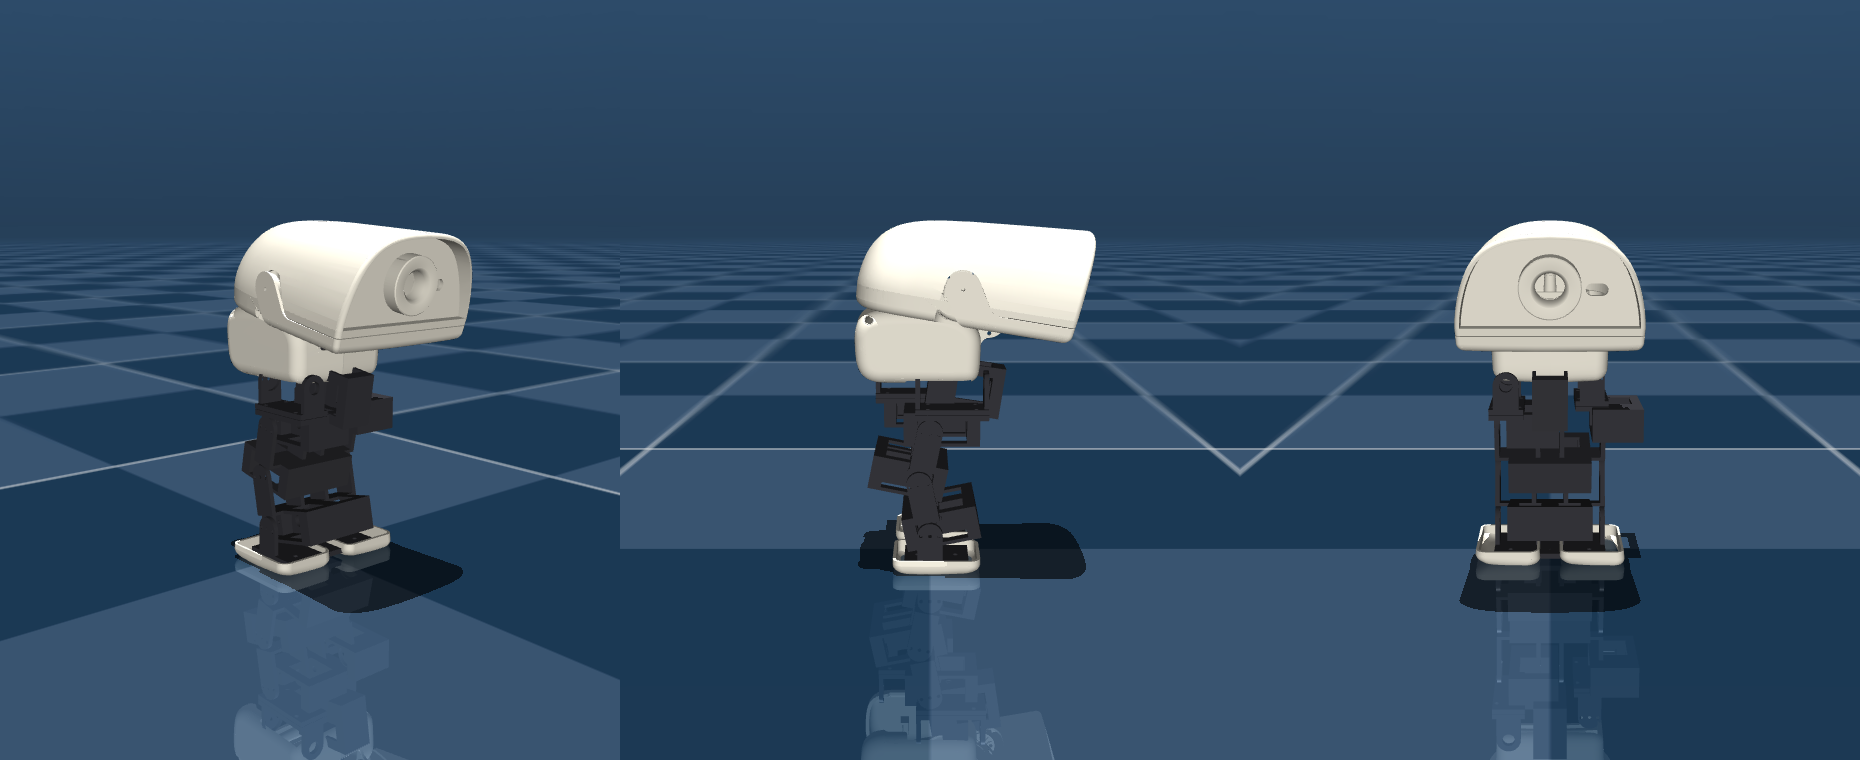
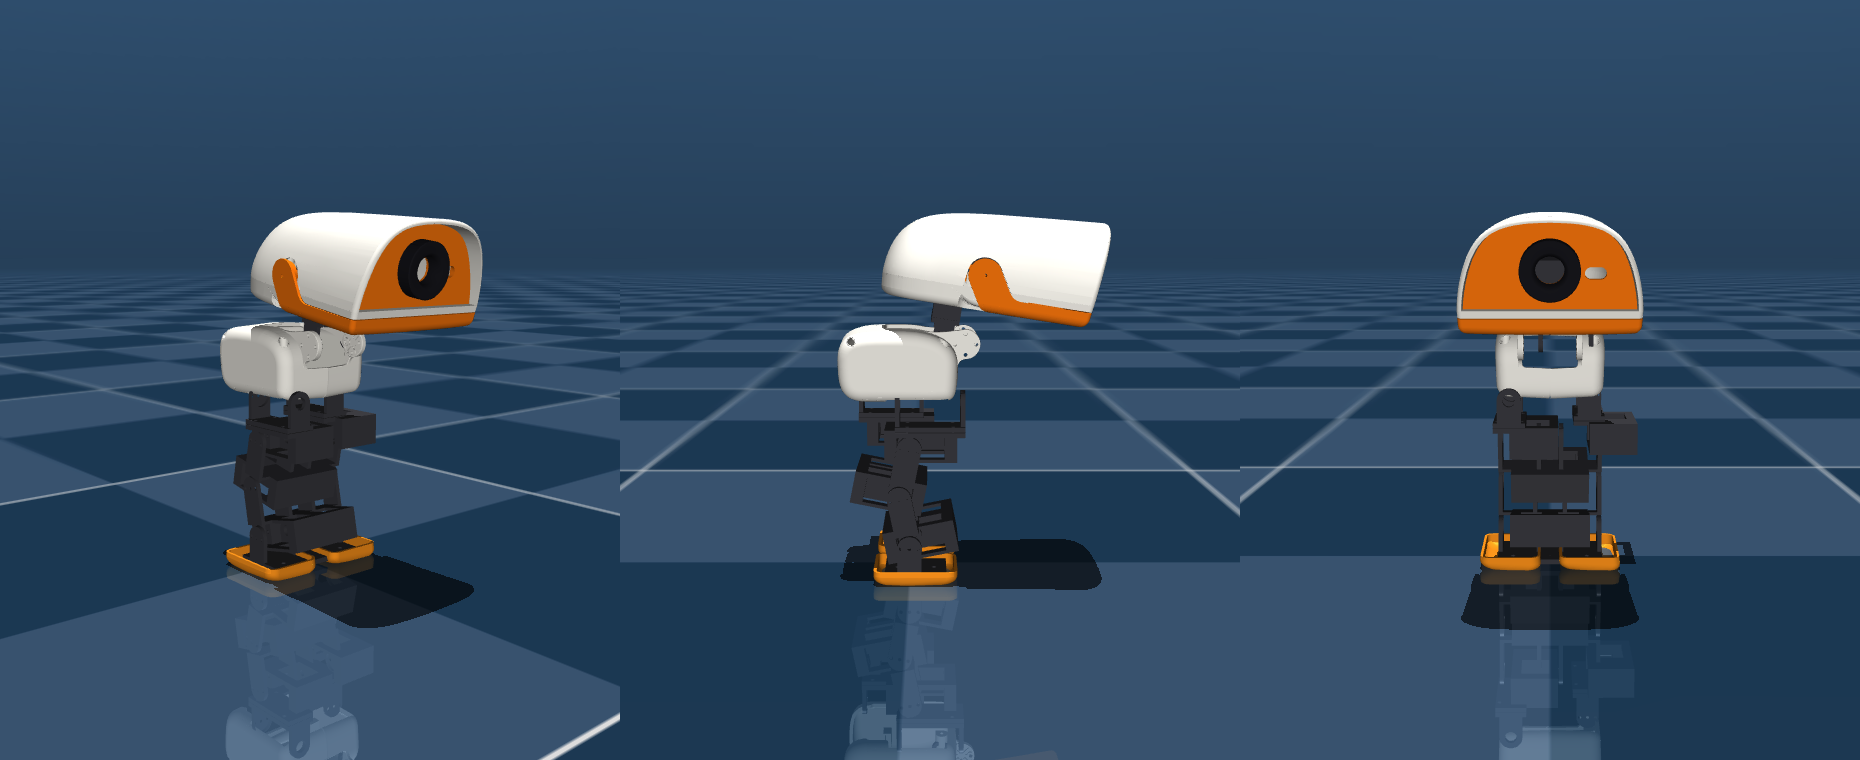
Fix the neck: part inverted, head buried, and no colour
"The neck looks wrong" was three separate defects.

The printed neck part was upside down. parts.link() builds every part with
its driving joint at -Z, which is correct for all six leg parts and backwards
for the one link that runs UP. The part spanned z -44 to +5 while the head sat
at +20, so it pointed down into the trunk. Caught by asking whether each
parent's part actually reaches the joint it drives -- the six leg parts pass,
the neck did not.

The head was 10.6 mm inside the body, which is what "no visible neck" really
was: there was a neck, the head was just swallowing it. NECK_SINK 8 mm and
HEAD_Z 4 mm were reasonable for a 37 mm head and badly wrong for the 50 mm one
that came with MicroDuck proportions. HEAD_Z is no longer typed or derived in
closed form -- the closed form was wrong twice, missing both the drop from the
neck_pitch tilt and the fact that a cluster's centre is not its lowest point.
solve_head_z() writes the model, measures the real gap in world coordinates,
and adds the deficit; check_head_clearance() then asserts it.

And the shells had no colour. They arrive as separate meshes, so per-mesh rgba
costs nothing and is most of what was left: the real robot is off-white with
an orange bill and brow band, a black eye and orange webbed feet, and one flat
cream reads as a generic white robot.

Also corrected in the README: the "head tilted 40 degrees" I reported from
looking at a render is not real. Measured pitch is +8.6 degrees, exactly
[…]

diff --git a/cad/build_nanoduck.py b/cad/build_nanoduck.py
@@ -84,7 +84,21 @@ NECK_LEN = 20.0                 # neck_pitch -> head_yaw (printed part length)
 NECK_SINK = 8.0                 # how far the neck root sits INSIDE the trunk, so
                                 # the head nestles instead of floating above it
 HEAD = (104.3, 78.0, 50.4)      # = cosmetic head cluster at 0.85
-HEAD_Z = 4.0                    # head cluster centre above the head_yaw axis
+
+# Where the head sits is DERIVED, not typed. Two hand-tuned numbers (NECK_SINK
+# 8 mm and HEAD_Z 4 mm) were fine for a 37 mm head and buried a 50 mm one
+# 10.6 mm inside the body -- which is what "the neck looks wrong" actually was:
+# no neck was visible because the head was inside the trunk.
+#
+# Constraint: the underside of the head clears the top of the trunk by HEAD_GAP.
+# Solving it here means changing the head scale cannot reintroduce the bug, and
+# check_head_clearance() measures the result off the compiled model.
+HEAD_GAP = 1.5                  # mm of daylight between head and body
+HEAD_X = 18.0                   # head centre ahead of the head_yaw axis: the neck
+                                # meets the skull toward its rear, as on MicroDuck,
+                                # so the bill projects and the head does not sit
+                                # over the tail
+HEAD_Z = (TRUNK[2] / 2 + HEAD_GAP) - (TRUNK[2] / 2 - NECK_SINK) - NECK_LEN + HEAD[2] / 2
 
 
 # --- Masses [kg] not accounted for by a servo box -----------------------------
@@ -315,8 +329,8 @@ def build_robot() -> str:
     a(link_geom("neck_link", (10, 12, NECK_LEN), (0, 0, NECK_LEN / 2), M_NECK_LINK))
     a('        <body name="head" pos="%s">\n' % m(0, 0, NECK_LEN))
     a('          <joint name="head_yaw" axis="0 0 1" range="-2.967 2.967"/>\n')
-    a(link_geom("head_shell", HEAD, (0, 0, HEAD_Z), M_HEAD, "0.95 0.93 0.86 1"))
-    a(COS.cluster_geoms("head", (0.0, 0.0, HEAD_Z)))
+    a(link_geom("head_shell", HEAD, (HEAD_X, 0, HEAD_Z), M_HEAD, "0.95 0.93 0.86 1"))
+    a(COS.cluster_geoms("head", (HEAD_X, 0.0, HEAD_Z)))
     # Sensor mounting points, matching MicroDuck's own set so its tooling finds
     # the names it expects. Nothing in the walking observation reads these --
     # that is base_ang_vel and gravity off the trunk IMU -- but the head shell
@@ -357,6 +371,67 @@ def trunk_z() -> float:
     import math
     drop = THIGH * math.cos(HIP_PITCH_0) + SHIN * math.cos(HIP_PITCH_0 + KNEE_0)
     return ANKLE_TO_SOLE + FOOT[2] + drop + HIP_ROLL_TO_PITCH + TRUNK[2] / 2
+
+
+def _shell_world_bounds(scene_path, names):
+    """World-space bounding box [mm] of a set of skin geoms, in the home pose."""
+    import mujoco
+    import numpy as np
+    import trimesh
+
+    m = mujoco.MjModel.from_xml_path(scene_path)
+    d = mujoco.MjData(m)
+    mujoco.mj_resetDataKeyframe(m, d, 0)
+    mujoco.mj_forward(m, d)
+    lo = np.full(3, np.inf)
+    hi = np.full(3, -np.inf)
+    for g in range(m.ngeom):
+        n = mujoco.mj_id2name(m, mujoco.mjtObj.mjOBJ_GEOM, g) or ""
+        if n not in names:
+            continue
+        mid = m.geom_dataid[g]
+        va, vn = m.mesh_vertadr[mid], m.mesh_vertnum[mid]
+        v = m.mesh_vert[va:va + vn].copy()
+        v = v @ trimesh.transformations.quaternion_matrix(
+            m.geom_quat[g])[:3, :3].T + m.geom_pos[g]
+        bi = m.geom_bodyid[g]
+        v = v @ d.xmat[bi].reshape(3, 3).T + d.xpos[bi]
+        lo = np.minimum(lo, 1000 * v.min(0))
+        hi = np.maximum(hi, 1000 * v.max(0))
+    return lo, hi
+
+
+def measure_head_gap(scene_path: str) -> float:
+    """mm between the underside of the head shells and the top of the trunk."""
+    head = {"skin_" + n for n in COS.GROUPS["head"][1]}
+    hlo, _ = _shell_world_bounds(scene_path, head)
+    _, thi = _shell_world_bounds(scene_path, {"skin_left_shell", "skin_right_shell"})
+    return float(hlo[2] - thi[2])
+
+
+def check_head_clearance(scene_path: str) -> bool:
+    """Does the head sit ON the body rather than inside it?
+
+    This is the check that "the neck looks wrong" turned out to need. The head
+    was 10.6 mm inside the trunk, so no neck was visible at all -- and none of
+    the existing tests noticed, because every one of them was about the head's
+    own orientation or the joint chain, not about two shells trying to occupy
+    the same space.
+    """
+    head = {"skin_" + n for n in COS.GROUPS["head"][1]}
+    hlo, hhi = _shell_world_bounds(scene_path, head)
+    tlo, thi = _shell_world_bounds(scene_path, {"skin_left_shell", "skin_right_shell"})
+    gap = float(hlo[2] - thi[2])
+    ok = gap > 0.0
+    print()
+    print("head / body clearance:")
+    print("   head shells  z [%6.1f, %6.1f] mm   x [%6.1f, %6.1f]"
+          % (hlo[2], hhi[2], hlo[0], hhi[0]))
+    print("   trunk panels z [%6.1f, %6.1f] mm   x [%6.1f, %6.1f]"
+          % (tlo[2], thi[2], tlo[0], thi[0]))
+    print("   gap          %+6.1f mm   %s" % (gap, "ok" if ok else "HEAD BURIED IN THE BODY"))
+    print("   bill reaches %+6.1f mm ahead of the trunk nose" % (hhi[0] - thi[0] * 0 - 34.4))
+    return ok
 
 
 def check_joints(scene_path: str) -> bool:
@@ -506,8 +581,35 @@ def build_scene() -> str:
 """ % (qpos, home)
 
 
+def solve_head_z(passes: int = 4) -> None:
+    """Set HEAD_Z so the head clears the trunk by HEAD_GAP, by measuring.
+
+    The closed-form version of this was wrong twice: it missed that the head is
+    pitched by neck_pitch (so its underside drops by the tilt) and that the
+    cluster's own vertical centre is not its lowest point. Both are easy to
+    forget again the next time the head scale or the neck length moves.
+
+    So do not derive it -- measure it. The gap is linear in HEAD_Z, so writing
+    the model, reading the real gap in world coordinates and adding the deficit
+    converges in one step; the extra passes are just insurance.
+    """
+    global HEAD_Z
+    for _ in range(passes):
+        with open(os.path.join(OUT, "nanoduck.xml"), "w", encoding="utf-8",
+                  newline="\n") as f:
+            f.write(build_robot())
+        with open(os.path.join(OUT, "scene_nanoduck.xml"), "w", encoding="utf-8",
+                  newline="\n") as f:
+            f.write(build_scene())
+        gap = measure_head_gap(os.path.join(OUT, "scene_nanoduck.xml"))
+        if abs(gap - HEAD_GAP) < 0.1:
+            return
+        HEAD_Z += (HEAD_GAP - gap)
+
+
 def main() -> None:
     os.makedirs(OUT, exist_ok=True)
+    solve_head_z()
     for name, text in (("nanoduck.xml", build_robot()),
                        ("scene_nanoduck.xml", build_scene())):
         path = os.path.join(OUT, name)
@@ -522,6 +624,7 @@ def main() -> None:
     print("cosmetic orientation:")
     ok = COS.check_orientation()
     ok &= check_joints(scene)
+    ok &= check_head_clearance(scene)
     check_static_balance(scene)
     if not ok:
         raise SystemExit("\nCHECKS FAILED -- the model is wrong, do not train on it.")

diff --git a/cad/cosmetics.py b/cad/cosmetics.py
@@ -66,6 +66,20 @@ GROUPS = {
 }
 
 
+# Per-mesh colour. The shells arrive as separate parts, so this costs nothing
+# and it is most of what was left of "it does not look like a MicroDuck": the
+# real robot is off-white with an ORANGE bill and brow band and a black eye, and
+# a render in one flat cream reads as a generic white robot instead.
+COLOUR = {
+    "_default":          "0.93 0.92 0.89 1",   # shells
+    "jaw":               "0.95 0.45 0.05 1",   # the bill
+    "face_part":         "0.95 0.45 0.05 1",   # the band around the brow
+    "noenoeil":          "0.09 0.09 0.11 1",   # eye
+    "sole_left":         "0.95 0.55 0.10 1",   # webbed feet
+    "sole_right":        "0.95 0.55 0.10 1",
+}
+
+
 def extra_matrix(group):
     rx, ry, rz = GROUPS[group][2]
     return trimesh.transformations.euler_matrix(
@@ -150,8 +164,8 @@ def cluster_geoms(group, target_centre_mm):
         p = E[:3, :3] @ (pos * 1000.0 * scale) + shift
         quat = compose(group, quat)
         out.append('        <geom name="skin_%s" type="mesh" mesh="%s" class="skin" '
-                   'pos="%s" quat="%s"/>\n'
-                   % (name, name,
+                   'rgba="%s" pos="%s" quat="%s"/>\n'
+                   % (name, name, COLOUR.get(name, COLOUR["_default"]),
                       " ".join("%.5f" % (v * 0.001) for v in p),
                       " ".join("%.6f" % v for v in quat)))
     return "".join(out)
@@ -245,7 +259,12 @@ PRINTED = {
     "left_thigh": (["thigh_L"], None), "right_thigh": (["thigh_R"], None),
     "left_shin": (["shin_L"], None), "right_shin": (["shin_R"], None),
     "left_foot": (["foot_mount_L"], None), "right_foot": (["foot_mount_R"], None),
-    "neck": (["neck_link_a", "neck_link_b"], None),
+    # The neck is the one link that runs UP. parts.link() builds every part
+    # with its driving joint at -Z, which is right for all six leg parts and
+    # upside down here: the head sits at +20 mm and the part reached from -44
+    # to +5, i.e. down into the trunk. Flipped 180 deg about X, which also
+    # leaves neck_pitch on Y and head_yaw on Z, just with reversed sense.
+    "neck": (["neck_link_a", "neck_link_b"], (0.0, 1.0, 0.0, 0.0)),
 }
 
 
